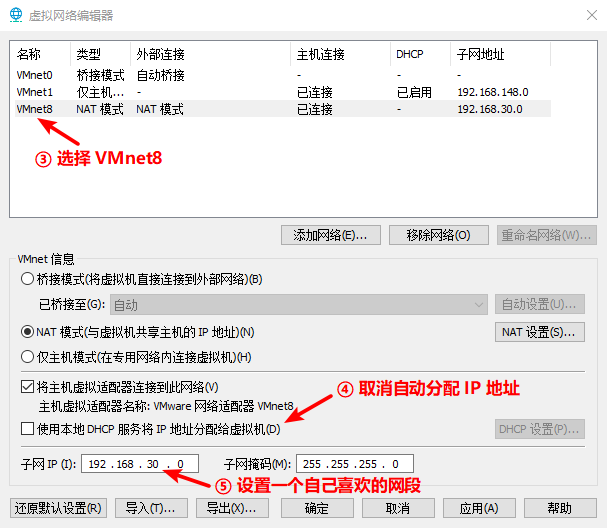
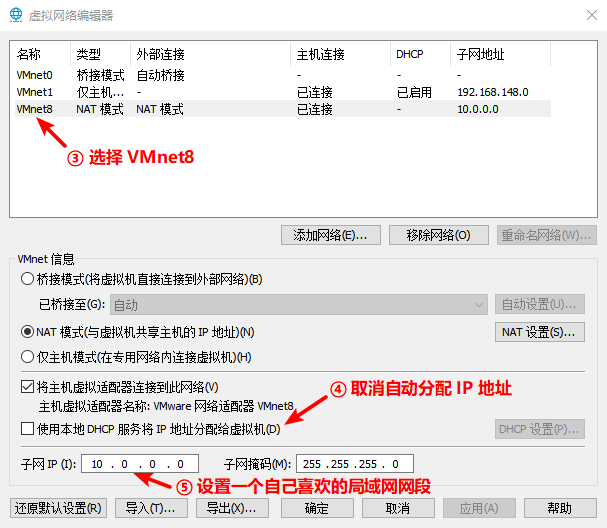
完善CentOS7开机优化

diff --git a/site/_posts/2021-05-12-vmware-centos7-boot-optimization.md b/site/_posts/2021-05-12-vmware-centos7-boot-optimization.md
@@ -37,11 +37,11 @@ IPV6_ADDR_GEN_MODE=stable-privacy
 NAME=ens33
 UUID=2437316e-c76f-44ef-893d-fcc1fa2f5346    # 删除此行，防止冲突
 DEVICE=ens33
-ONBOOT=no                # 改为 yes
-GATEWAY=192.168.30.2     # 新增此行
-IPADDR=192.168.30.100    # 新增此行
-NETMASK=255.255.255.0    # 新增此行
-DNS1=192.168.30.2        # 新增此行，添加内网DNS解析
+ONBOOT=no                # 改为yes
+GATEWAY=10.0.0.2         # 新增网关配置，地址可从VMware NAT设置中查看
+IPADDR=10.0.0.20         # 新增此行，配置静态IP
+NETMASK=255.255.255.0    # 新增此行，配置子网掩码
+DNS1=10.0.0.2            # 新增此行，添加内网DNS解析
 DNS2=1.2.4.8             # 新增此行，添加外网DNS解析
 ```
 
@@ -51,32 +51,76 @@ DNS2=1.2.4.8             # 新增此行，添加外网DNS解析
 systemctl restart network
 ```
 
-### 3.2 yum 源优化
+### 3.2 解决设置静态 IP 后 SSH 登录过慢问题
+
+修改 ssh 配置文件：
+
+```bash
+vi /etc/ssh/sshd_config
+```
+
+找到如下配置节点：
+
+```properties
+#UseDNS yes
+```
+
+修改为：
+
+```properties
+UseDNS no
+```
+
+重启 ssh 服务，使配置生效：
+
+```bash
+systemctl restart sshd
+```
+
+::: tip 快速修改
+
+```bash
+sed -i 's/#UseDNS yes/UseDNS no/g' /etc/ssh/sshd_config && \
+systemctl restart sshd.service
+```
+
+:::
+
+### 3.3 yum 源优化
 
 将默认 yum 源改为国内 yum 源
 
 ```bash
+# 备份
 mv /etc/yum.repos.d/CentOS-Base.repo /etc/yum.repos.d/CentOS-Base.repo.bak
-```
 
-```bash
+# 下载阿里源
 curl -o /etc/yum.repos.d/CentOS-Base.repo http://mirrors.aliyun.com/repo/Centos-7.repo
-```
 
-```bash
-curl -o /etc/yum.repos.d/epel.repo http://mirrors.aliyun.com/repo/epel-7.repo
-```
-
-清空并建立缓存
-
-```bash
+# 清理并重建缓存
 yum clean all && yum makecache
 ```
 
-### 3.3 优化网络管理
+添加 epel 源
 
 ```bash
-systemctl stop NetworkManager
+# 查看系统是否已有 epel
+rpm -qa | grep epel
+
+# 如果有的话先卸载之前的 epel 以免受影响
+rpm -e epel-release
+
+# 下载阿里的 epel 源
+curl -o /etc/yum.repos.d/epel.repo http://mirrors.aliyun.com/repo/epel-7.repo
+
+# 清理并重建缓存
+yum clean all && yum makecache
+```
+
+### 3.4 优化网络管理
+
+```bash
+systemctl stop NetworkManager && \
 systemctl disable NetworkManager
 ```
 
